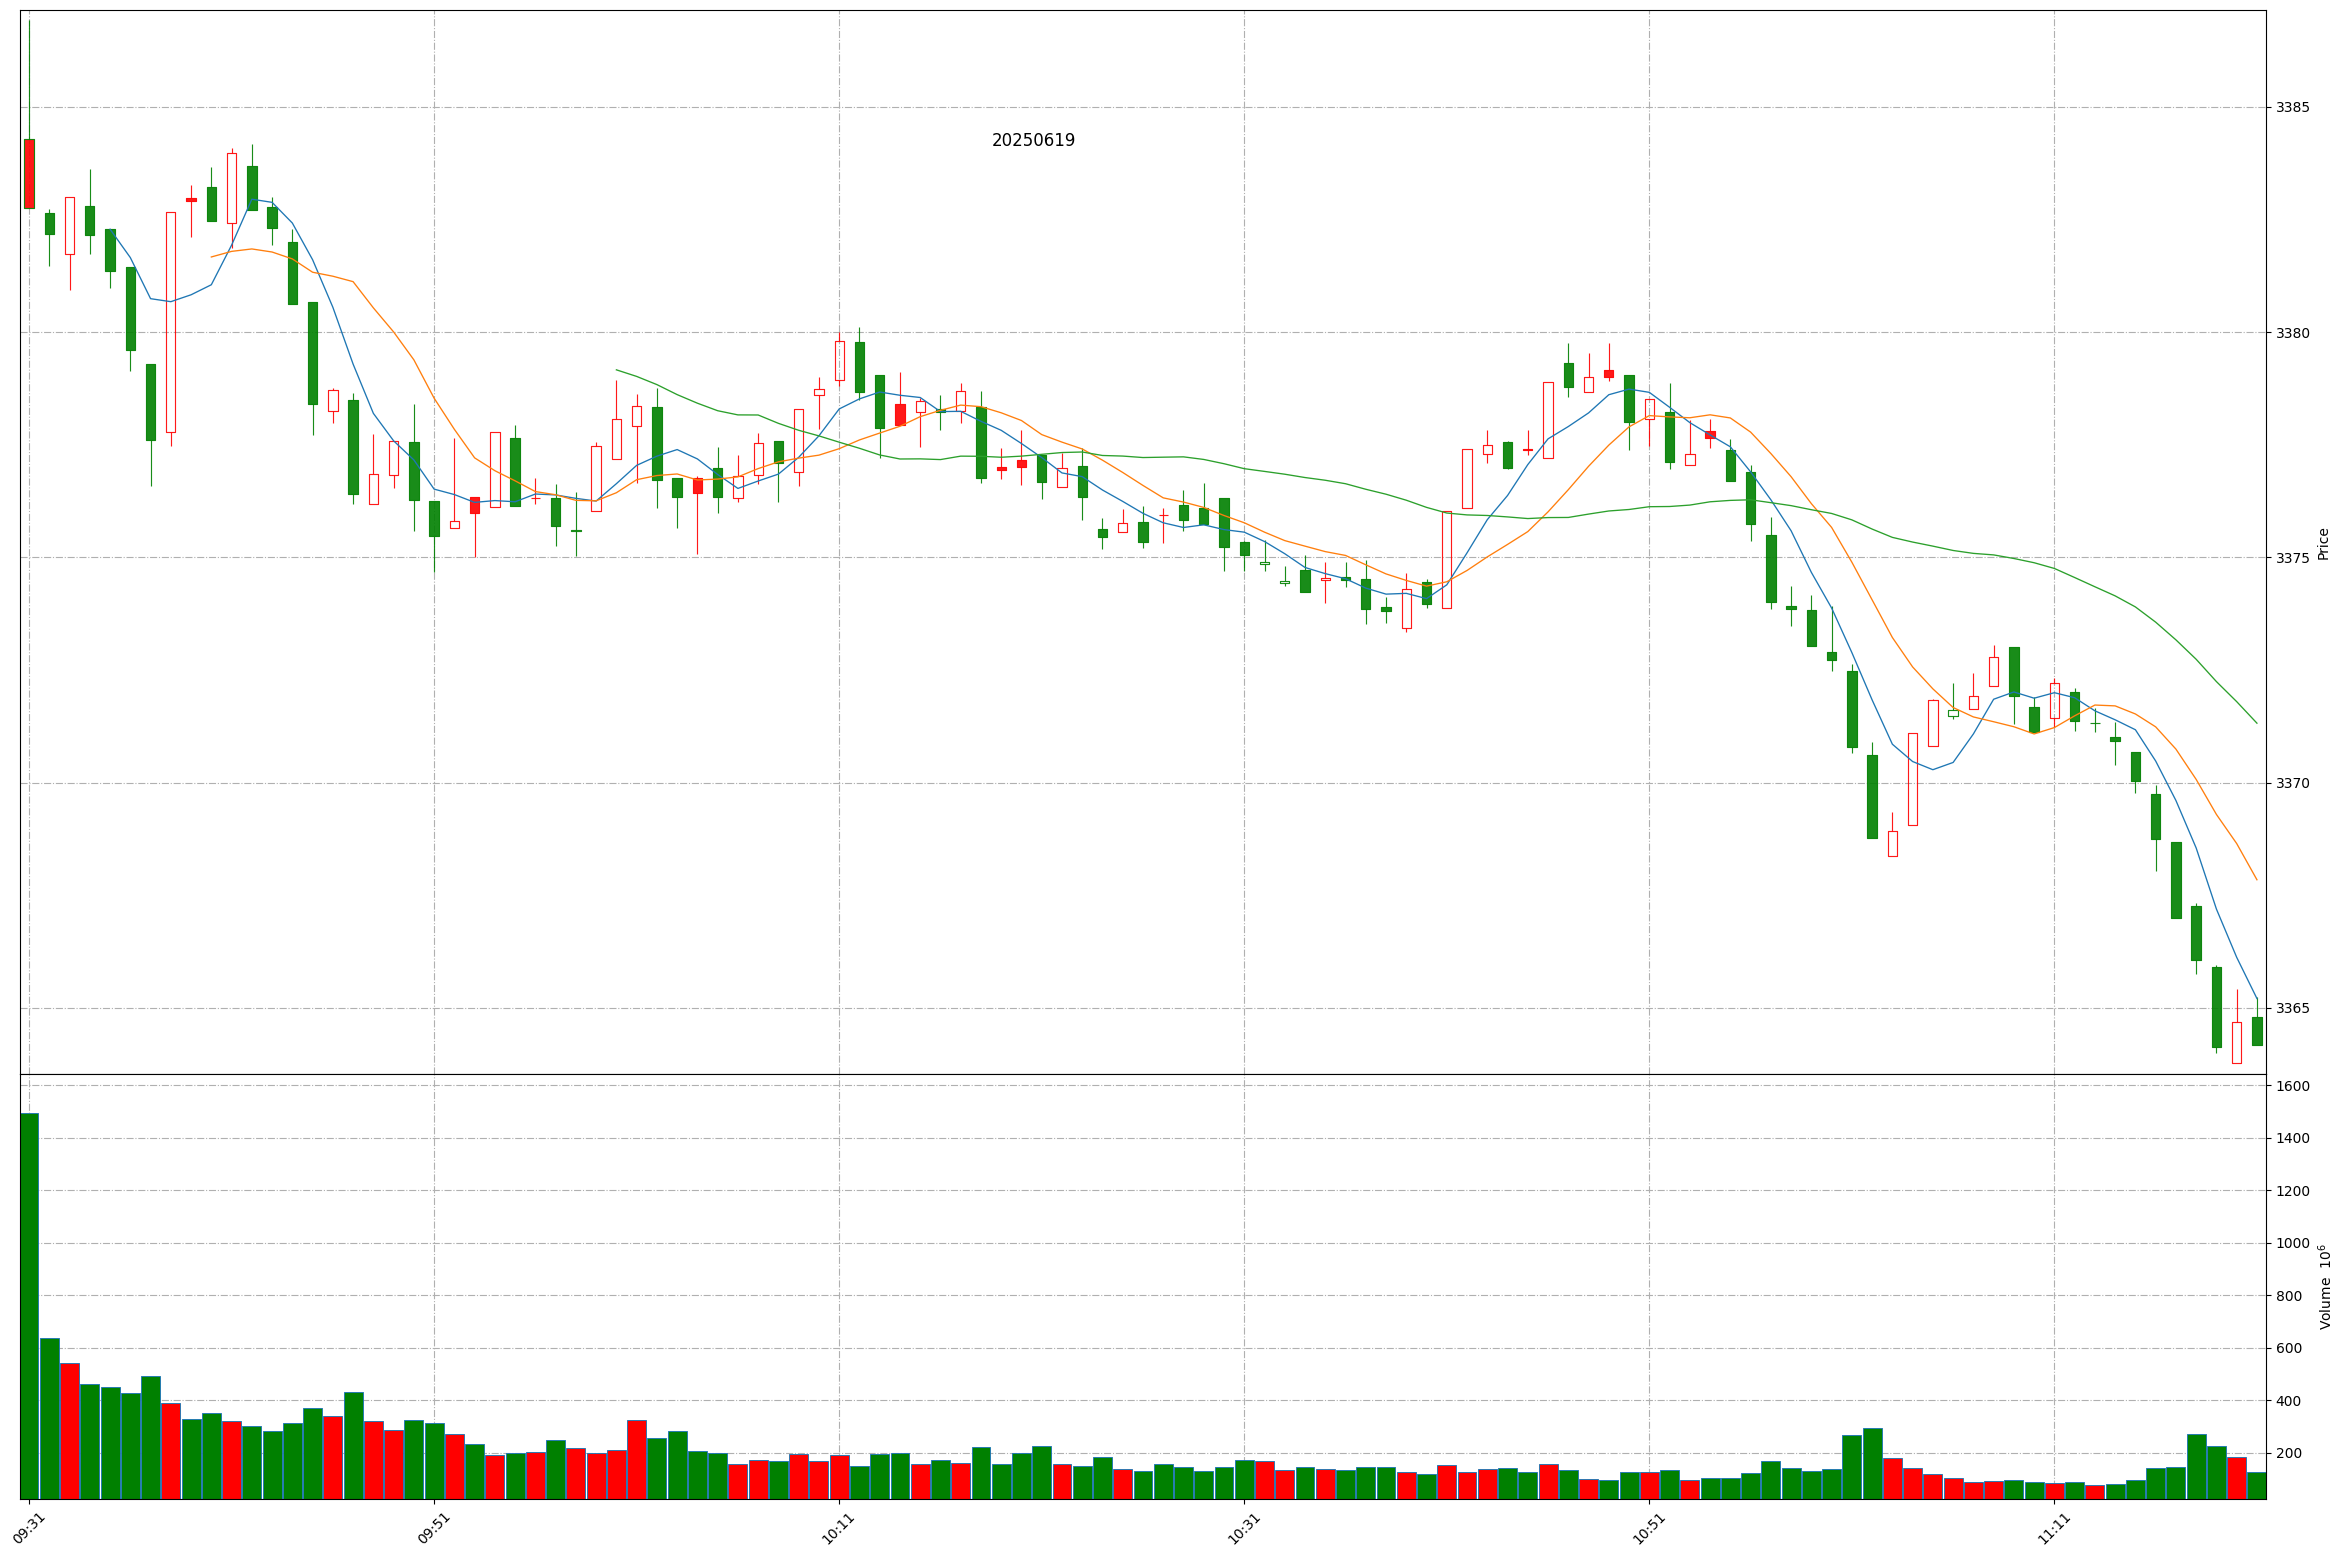
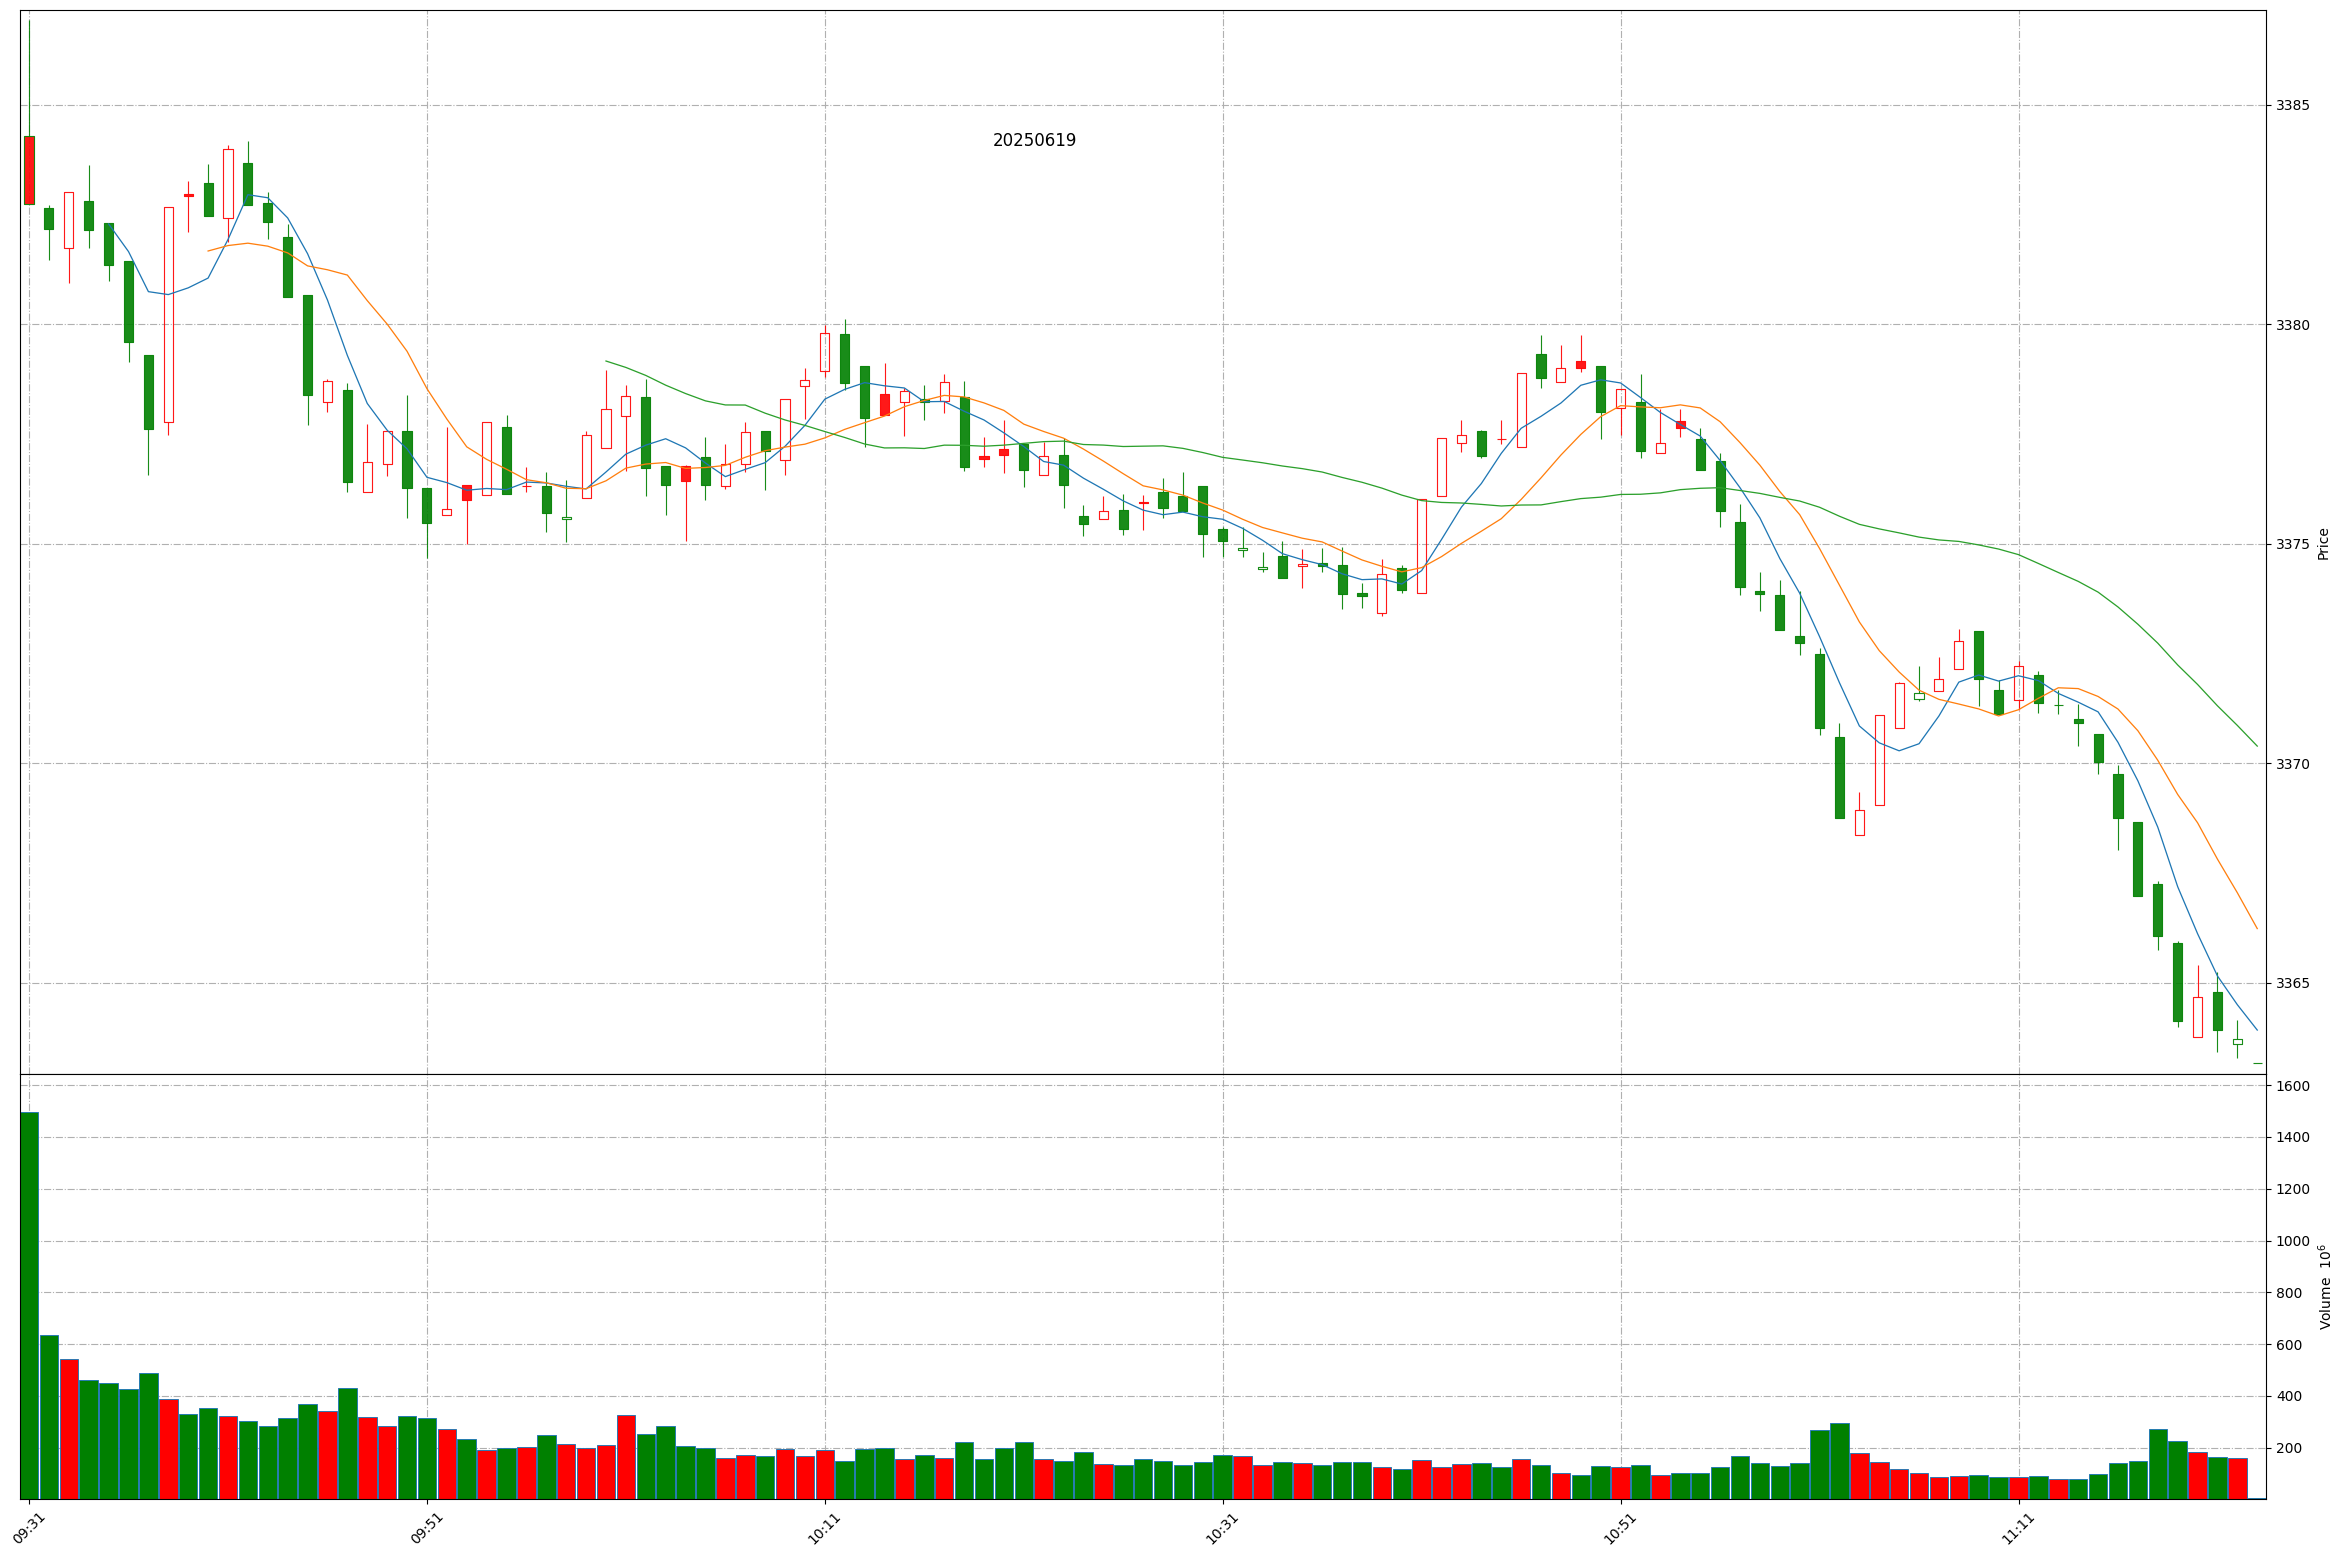
Github action update at 2025-06-19 11:22:16.

Changed region(s): [[0.0311, 0.0925, 0.965, 0.6782], [0.0311, 0.8632, 0.965, 0.9865], [0.4358, 0.0617, 0.467, 0.0925]]

diff --git a/README.md b/README.md
@@ -1,11 +1,11 @@
 
 # Daily-A-share-market-quotes 每日 A 股指数（5min 更新）- 20250619
 
-### 上证指数 20250619 11:21
+### 上证指数 20250619 11:22
 ![](./fig/2025/6/20250619-sh000001.png)
 
-### 深证成指 20250619 11:21
+### 深证成指 20250619 11:22
 ![](./fig/2025/6/20250619-sz399001.png)
 
-### 北证50 20250619 11:21
+### 北证50 20250619 11:22
 ![](./fig/2025/6/20250619-bj899050.png)
